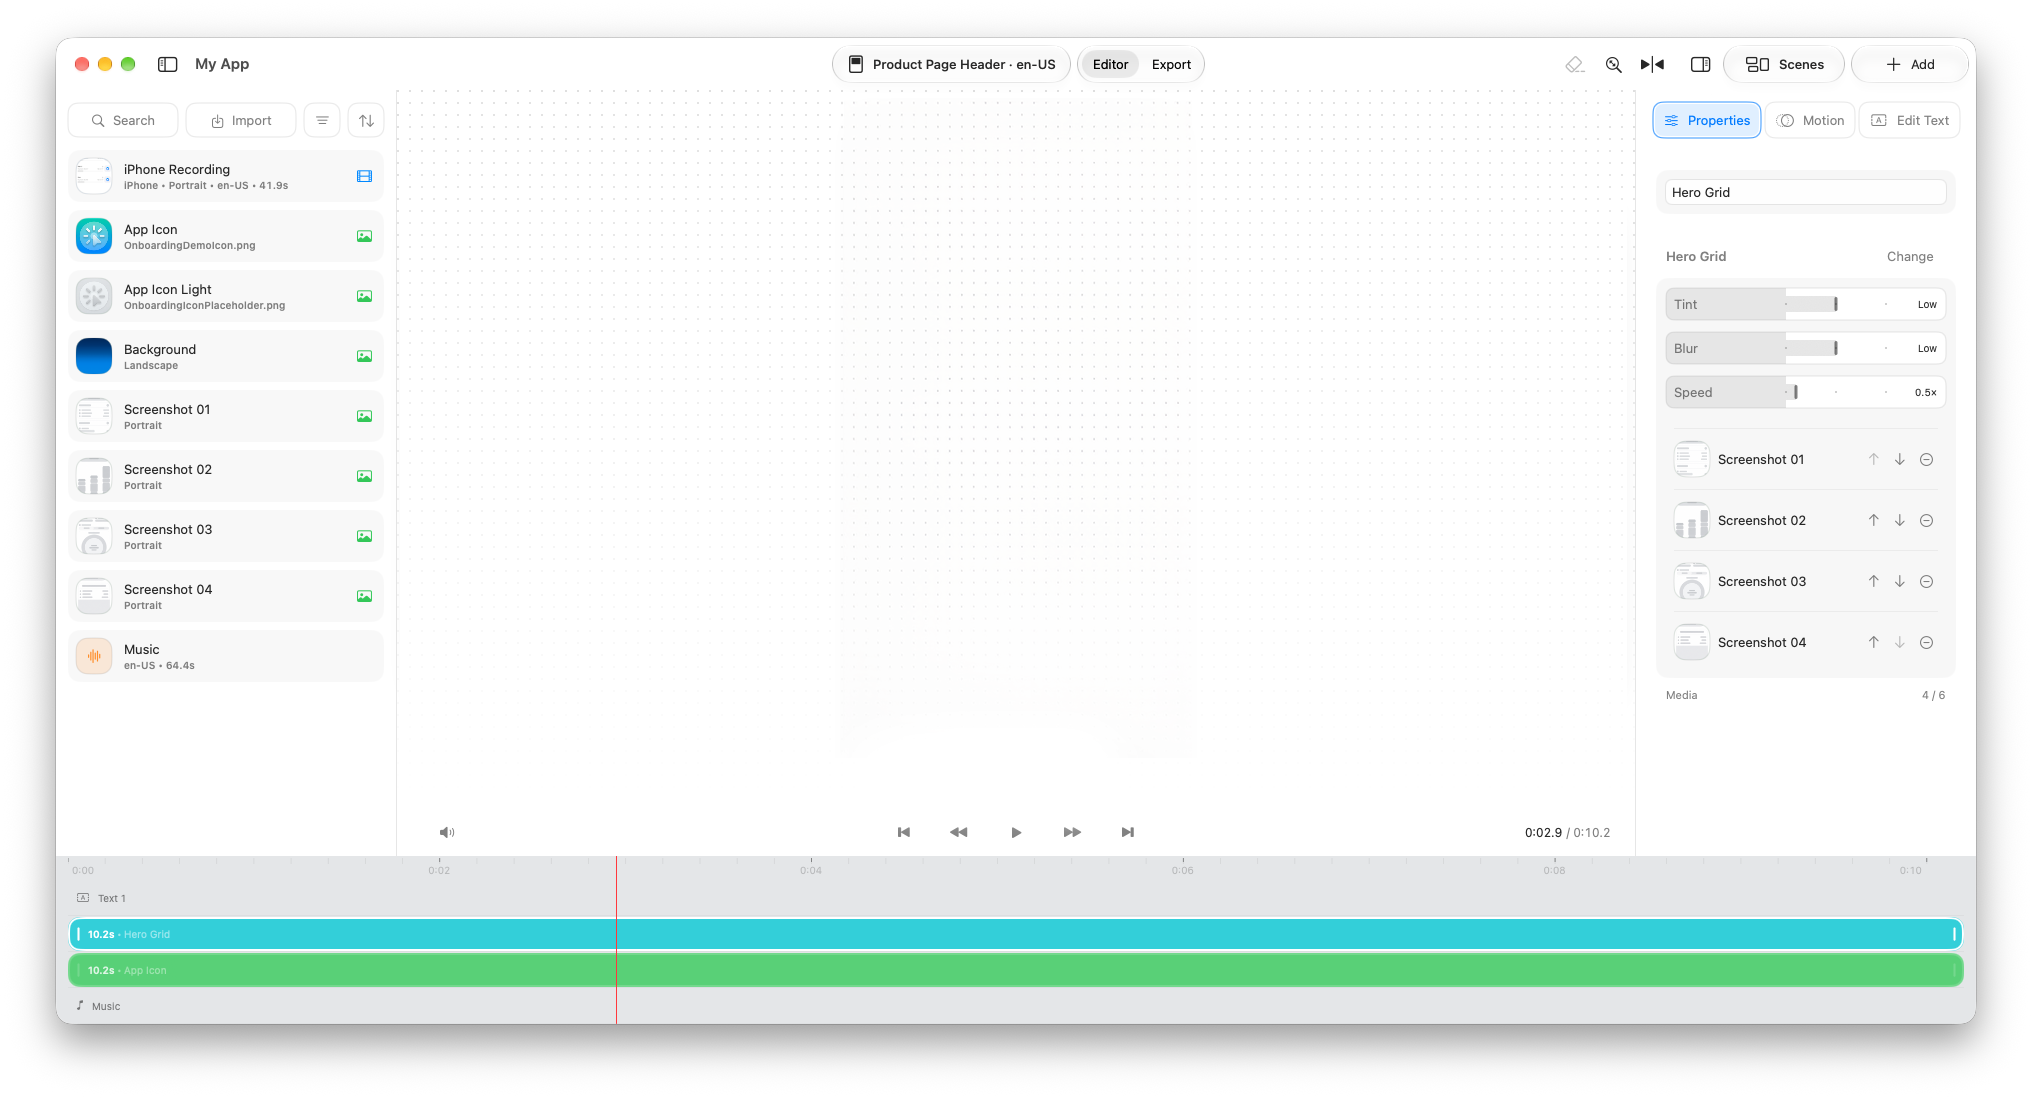
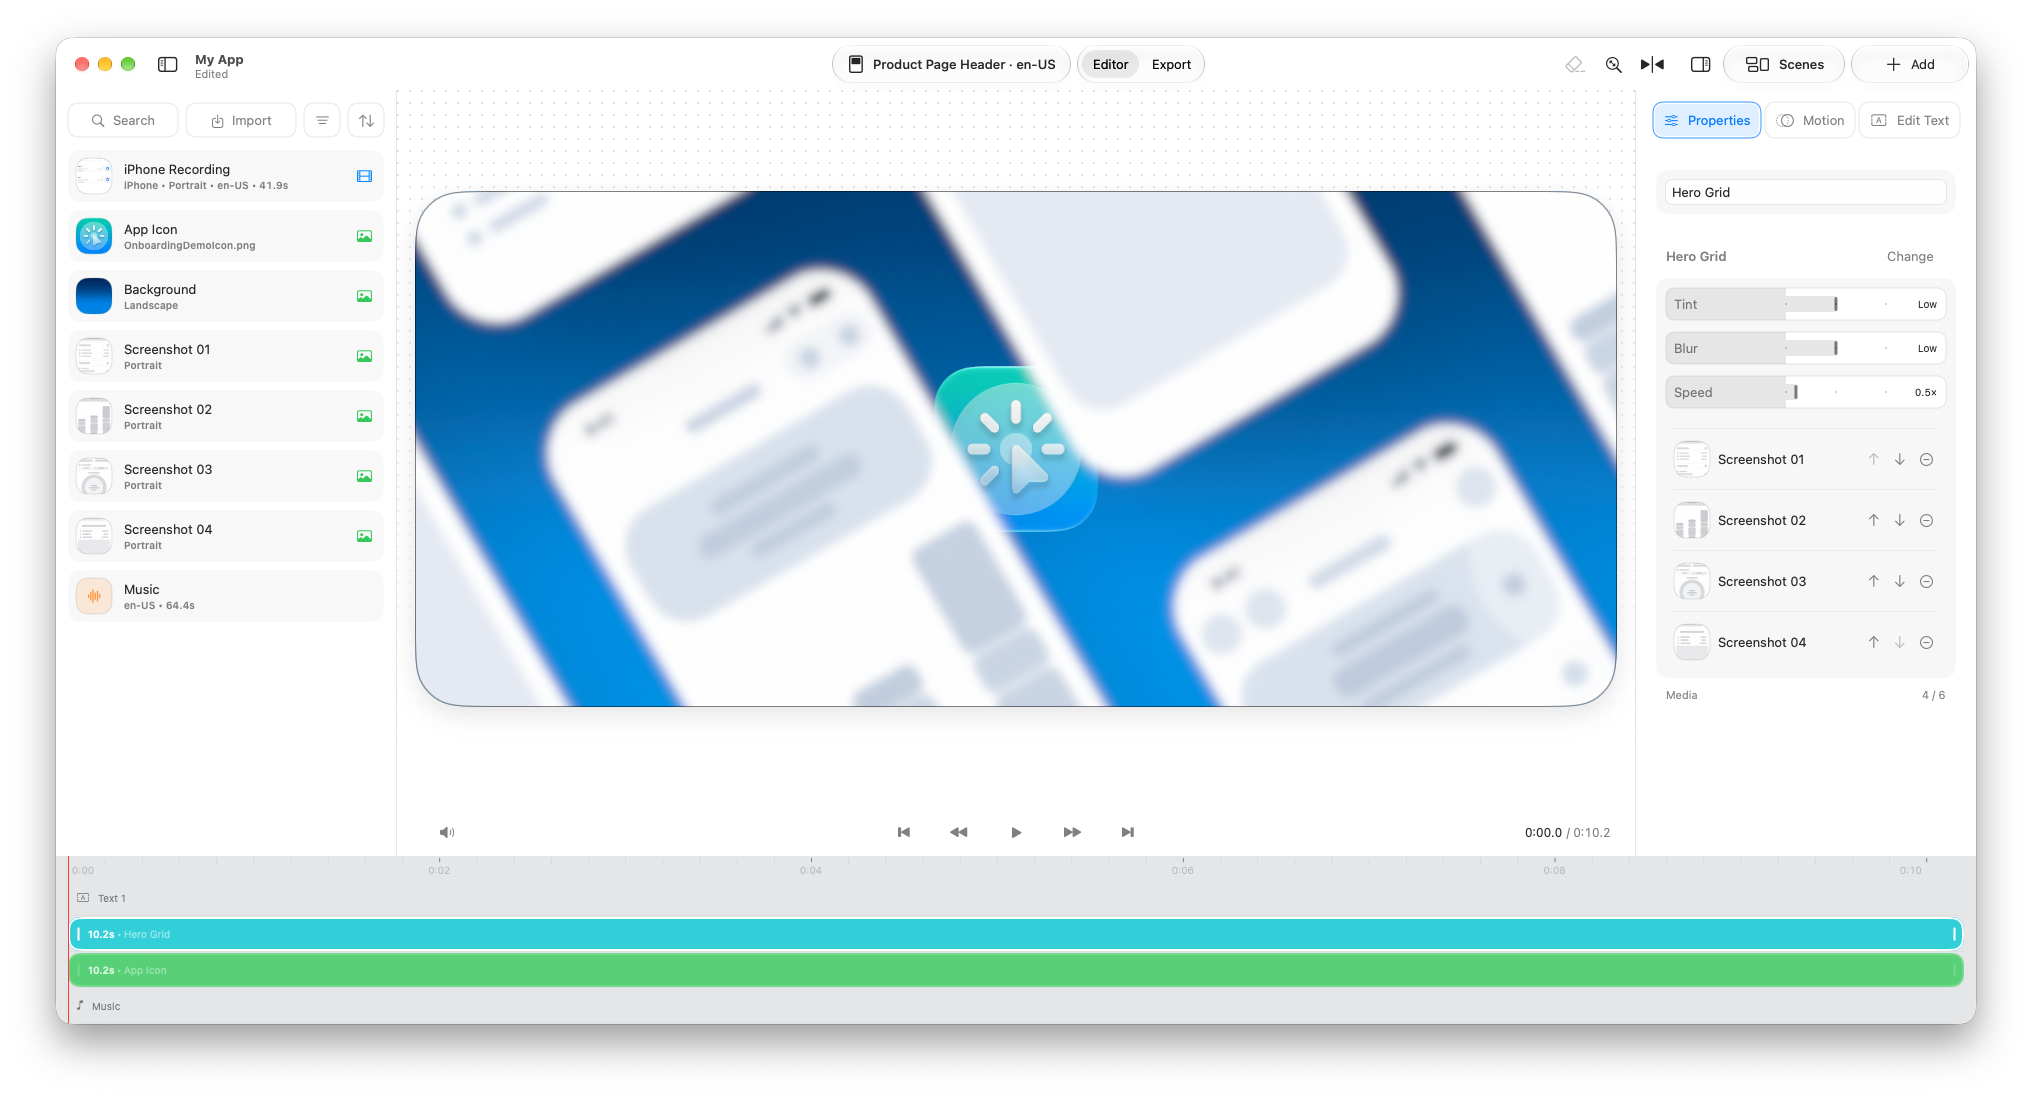
Updates

diff --git a/app-preview-editor/index.html b/app-preview-editor/index.html
@@ -25,7 +25,7 @@
 
   <link rel="icon" href="AppIcon.png" type="image/png">
   <link rel="apple-touch-icon" href="AppIcon.png">
-  <link rel="stylesheet" href="styles.css?v=20261030-app-icon-144-1">
+  <link rel="stylesheet" href="styles.css?v=20261030-scene-desktop-1">
   <link rel="stylesheet" href="../tally-embed.css?v=20261029-1">
   <link rel="stylesheet" href="wind-files.css?v=20261029-varied-sizes-1">
   <link rel="stylesheet" href="../shared-download-cta.css?v=20261024-1">
@@ -187,10 +187,15 @@
         <h2 id="scene-clips-title">Set the scene in a few steps.</h2>
         <p>Start with a ready-made scene, then make it your own. The motion is already there, so you can focus on your app’s story.</p>
       </div>
-      <div class="scene-clips-media reveal">
-        <video width="1920" height="1080" poster="assets/product/scene-clip.png" preload="none" muted loop playsinline data-autoplay-video data-scene-clips aria-label="Ready-made animations and transitions in App Preview Editor">
-          <source data-src="assets/scene-clip.mp4" type="video/mp4">
-        </video>
+      <div class="scene-clips-media editor-composition reveal">
+        <div class="editor-backdrop">
+          <img class="editor-desktop" src="assets/desktop-bg.png" width="2560" height="1080" alt="" loading="lazy" decoding="async">
+        </div>
+        <div class="scene-clips-window">
+          <video width="1920" height="1080" poster="assets/app-preview-scene-app.png" preload="none" muted loop playsinline data-autoplay-video data-scene-clips aria-label="Ready-made animations and transitions in App Preview Editor">
+            <source data-src="assets/product/scene-clip.mp4" type="video/mp4">
+          </video>
+        </div>
       </div>
     </section>
 

diff --git a/app-preview-editor/styles.css b/app-preview-editor/styles.css
@@ -646,7 +646,8 @@ html:not(.js) #workflow .mobile-workflow-media-wrap { display: block; }
 .apes-landing .scene-clips > .section-heading { max-width: 760px; margin: 0 auto 40px; text-align: center; }
 .apes-landing .scene-clips > .section-heading p { margin-inline: auto; }
 .apes-landing .scene-clips .scene-clips-eyebrow { margin-bottom: 12px; color: var(--detail); font-size: .875rem; font-weight: 650; line-height: 1.5; }
-.apes-landing .scene-clips-media { min-width: 0; overflow: hidden; border: 1px solid var(--border); background: var(--surface); box-shadow: var(--shadow); }
+.apes-landing .scene-clips-media { min-width: 0; overflow: hidden; }
+.apes-landing .scene-clips-window { position: absolute; left: 5%; top: 50%; width: 90%; transform: translateY(-50%); overflow: hidden; border-radius: var(--media-radius); }
 .apes-landing .scene-clips-media video { display: block; width: 100%; height: auto; object-fit: contain; }
 
 /* The whole workflow card pins; compact or unavailable presentations stay in normal flow. */
